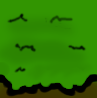
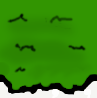
Cleaned up, Added backgrounds, fixed questions refresh timer reset

Changed region(s): [[0.0, 0.8265, 1.0, 1.0]]

diff --git a/src/main/LockdownGameLogic/GamePanel.java b/src/main/LockdownGameLogic/GamePanel.java
@@ -62,7 +62,7 @@ public class GamePanel extends JPanel implements Runnable{
             selectors.add(new SelectorHandler(x));
         }
 
-        enemySpawnerViaKey();
+        //enemySpawnerViaKey();
 
         addMouseListener(new MouseAdapter(){
             @Override
@@ -78,6 +78,7 @@ public class GamePanel extends JPanel implements Runnable{
                     repaint();
                     Thread newThread = new Thread(GamePanel.this);
                     newThread.start();
+                    questionsHandler.restart();
                 }
 
                 //SELECTOR
@@ -373,19 +374,41 @@ public class GamePanel extends JPanel implements Runnable{
 
 
         //DRAW THE GRID
-        g.setColor(Color.BLACK);
+        //g.setColor(Color.BLACK);
+        g.drawImage(background, 0 , 0, SCREEN_WIDTH, SCREEN_HEIGHT, null);
 
         for(int x = 0; x < gridRowCount; x++) {
             for (int y = 0; y < gridColumnCount; y++) {
                 //g.drawRect(initX + (x * gridWidth), initY + (y * gridHeight), gridWidth, gridHeight);
                 int Xcenter = initX + (x * gridWidth);
                 int Ycenter = initY + (y * gridHeight);
-                switch (y){
-                    case 0 -> g.drawImage(testField,  Xcenter, Ycenter, gridWidth,  gridHeight, null);
-                    case gridColumnCount - 1-> g.drawImage(testFieldBottom,  Xcenter, Ycenter, gridWidth, gridHeight, null);
-                    default -> g.drawImage(testFieldMiddle,  Xcenter, Ycenter, gridWidth, gridHeight, null);
+                if(x != gridRowCount - 1 && x != 0) {
+                    switch (y) {
+                        case 0 -> g.drawImage(testField, Xcenter, Ycenter, gridWidth, gridHeight, null);
+                        case gridColumnCount - 1 -> g.drawImage(testFieldBottom, Xcenter, Ycenter, gridWidth, gridHeight, null);
+                        default -> g.drawImage(testFieldMiddle, Xcenter, Ycenter, gridWidth, gridHeight, null);
+                    }
                 }
 
+                if(y != 0 && y != gridColumnCount - 1) {
+                    switch (x) {
+                        case 0 -> g.drawImage(testFieldLeft, Xcenter, Ycenter, gridWidth, gridHeight, null);
+                        case gridRowCount - 1 -> g.drawImage(testFieldRight, Xcenter, Ycenter, gridWidth, gridHeight, null);
+                    }
+                }
+
+
+                switch (x){
+                    case 0 -> {
+                        if(y == 0) g.drawImage(testFieldTopLeft, Xcenter, Ycenter, gridWidth, gridHeight, null);
+                        if(y == gridColumnCount - 1) g.drawImage(testFieldBottomLeft, Xcenter, Ycenter, gridWidth, gridHeight, null);
+                    }
+                    case gridRowCount - 1 -> {
+                        if(y == 0) g.drawImage(testFieldTopRight, Xcenter, Ycenter, gridWidth, gridHeight, null);
+                        if(y == gridColumnCount - 1) g.drawImage(testFieldBottomRight, Xcenter, Ycenter, gridWidth, gridHeight, null);
+                    }
+
+                }
             }
         }
 
@@ -397,10 +420,10 @@ public class GamePanel extends JPanel implements Runnable{
         for(int x = 0; x < 4; x++){
 
             if(selectors.get(x).isClicked()){
-                g.setColor(Color.red);
+                g.setColor(new Color(3, 1, 1, 128));
                 g.fillRect( selectorPaddingLeft , initY + (x*gridHeight), gridWidth, gridHeight);
             } else {
-                g.setColor(Color.gray);
+                g.setColor(new Color(0, 225, 255, 26));
                 g.fillRect(selectorPaddingLeft, initY + (x * gridHeight), gridWidth, gridHeight);
             }
             int Xcenter = selectorPaddingLeft + (gridWidth/2);

diff --git a/src/main/LockdownGameLogic/Constants.java b/src/main/LockdownGameLogic/Constants.java
@@ -1,6 +1,7 @@
 package main.LockdownGameLogic;
 
 import main.Lockdown_MainFrame;
+import main.Lockdown_QuestionsHandler;
 import main.MainGameFrame;
 
 import javax.imageio.ImageIO;
@@ -20,7 +21,7 @@ public class Constants {
     //public static final int paddingTop = 100;
     public static final int paddingTop = 20;
     //public static final int paddingBottom = 30;
-    public static final int paddingBottom = 180;
+    public static final int paddingBottom = 140;
     public static final int estTitleHeight = 40;
     public static final int gridRowCount = 9;
     public static final int gridColumnCount = 5;
@@ -47,6 +48,13 @@ public class Constants {
     public static BufferedImage SickDude;
     public static BufferedImage testFieldMiddle;
     public static BufferedImage testFieldBottom;
+    public static BufferedImage testFieldLeft;
+    public static BufferedImage testFieldRight;
+    public static BufferedImage testFieldTopRight;
+    public static BufferedImage testFieldTopLeft;
+    public static BufferedImage testFieldBottomRight;
+    public static BufferedImage testFieldBottomLeft;
+    public static BufferedImage background;
     public static Lockdown_MainFrame mgf;
     public static int mouseX, mouseY;
     public static int globalCharaID = -1;
@@ -55,6 +63,8 @@ public class Constants {
             col4EnemCount = 0, col5EnemCount = 0;
 
     public static int Coins = 50;
+
+    public static Lockdown_QuestionsHandler questionsHandler;
 
     public static void setUp(Lockdown_MainFrame mgf){
         Constants.mgf = mgf;
@@ -80,6 +90,21 @@ public class Constants {
             testFieldBottom = ImageIO.read(is);
             is = mgf.getClass().getResourceAsStream("/Resources/Sickdude.png");
             SickDude = ImageIO.read(is);
+            is = mgf.getClass().getResourceAsStream("/Resources/Background_Lockdown.png");
+            background = ImageIO.read(is);
+            is = mgf.getClass().getResourceAsStream("/Resources/TestFieldLeft.png");
+            testFieldLeft = ImageIO.read(is);
+            is = mgf.getClass().getResourceAsStream("/Resources/TestFieldRight.png");
+            testFieldRight = ImageIO.read(is);
+            is = mgf.getClass().getResourceAsStream("/Resources/TestFieldTopRight.png");
+            testFieldTopRight = ImageIO.read(is);
+            is = mgf.getClass().getResourceAsStream("/Resources/TestFieldTopLeft.png");
+            testFieldTopLeft = ImageIO.read(is);
+            is = mgf.getClass().getResourceAsStream("/Resources/TestFieldBottomRight.png");
+            testFieldBottomRight = ImageIO.read(is);
+            is = mgf.getClass().getResourceAsStream("/Resources/TestFieldBottomLeft.png");
+            testFieldBottomLeft = ImageIO.read(is);
+
 
             is.close();
         }catch (Exception e){

diff --git a/src/main/Lockdown_QuestionsHandler.java b/src/main/Lockdown_QuestionsHandler.java
@@ -36,7 +36,9 @@ public class Lockdown_QuestionsHandler implements Runnable {
     JTextArea timeAlive = new JTextArea();
 
     private final Thread questionThread;
+
     private final Debug questionTimerRefresh = new Debug();
+    private boolean changeQuestion = false;
 
     public Lockdown_QuestionsHandler(JPanel parent) throws FileNotFoundException, URISyntaxException {
 
@@ -209,7 +211,6 @@ public class Lockdown_QuestionsHandler implements Runnable {
         });
     }
 
-    private boolean changeQuestion;
     /**
      * Added a semi game loop to have a
      * refresh timer for the questions
@@ -238,5 +239,12 @@ public class Lockdown_QuestionsHandler implements Runnable {
 
     public void start(){
         questionThread.start();
+    }
+
+    public void restart(){
+        questionTimerRefresh.resetTime();
+        changeQuestion = false;
+        Thread thread = new Thread(this);
+        thread.start();
     }
 }

diff --git a/src/main/Lockdown_MainFrame.java b/src/main/Lockdown_MainFrame.java
@@ -122,7 +122,7 @@ import static main.LockdownGameLogic.Constants.*;
             exitButton.setLayout(new FlowLayout(FlowLayout.CENTER, 10, 5));
             secondPanel.add(exitButton, BorderLayout.WEST);
             this.add(secondPanel, BorderLayout.SOUTH);
-            Lockdown_QuestionsHandler questionsHandler = new Lockdown_QuestionsHandler(secondPanel);
+            questionsHandler = new Lockdown_QuestionsHandler(secondPanel);
 
             questionsHandler.start();
         }
